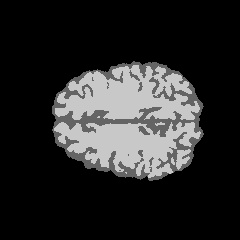
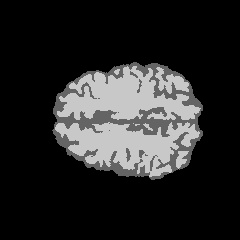
Update code
- Update visualization function

Changed region(s): [[0.2042, 0.2333, 0.8458, 0.7583], [0.4667, 0.6125, 0.4958, 0.6417]]

diff --git a/ImgReg.py b/ImgReg.py
@@ -56,9 +56,9 @@ mask_data   = createMask(moving_data, H, W, C)
 
 # saving images for visualization
 print("saving images...")
-saveImg(fixed_data,  H, W, "fixed.jpg" , 1)
-saveImg(moving_data, H, W, "moving.jpg", 1)
-saveImg(mask_data,   H, W, "mask.jpg"  , 100)
+saveImg(fixed_data,  H, W, C, "fixed.jpg" , 1)
+saveImg(moving_data, H, W, C, "moving.jpg", 1)
+saveImg(mask_data,   H, W, C, "mask.jpg"  , 100)
 
 # check image type
 res = (fixed_img.get_data_dtype() == np.dtype(np.int8))

diff --git a/ImgSeg.py b/ImgSeg.py
@@ -35,11 +35,12 @@ def createMask(data, H, W, C):
 
 # ----- visualization ----- #
 
-def saveImg(img_data, H, W, file_name, scale):
+def saveImg(img_data, H, W, C, file_name, scale):
     tmp = np.zeros((H, W), dtype=int)
+    sec = int( round(C/2) )
     for i in range(H):
         for j in range(W):
-            tmp[i][j] = img_data[0][i][j]*scale
+            tmp[i][j] = img_data[sec][i][j]*scale
 
     cv2.imwrite(file_name, tmp)
 
